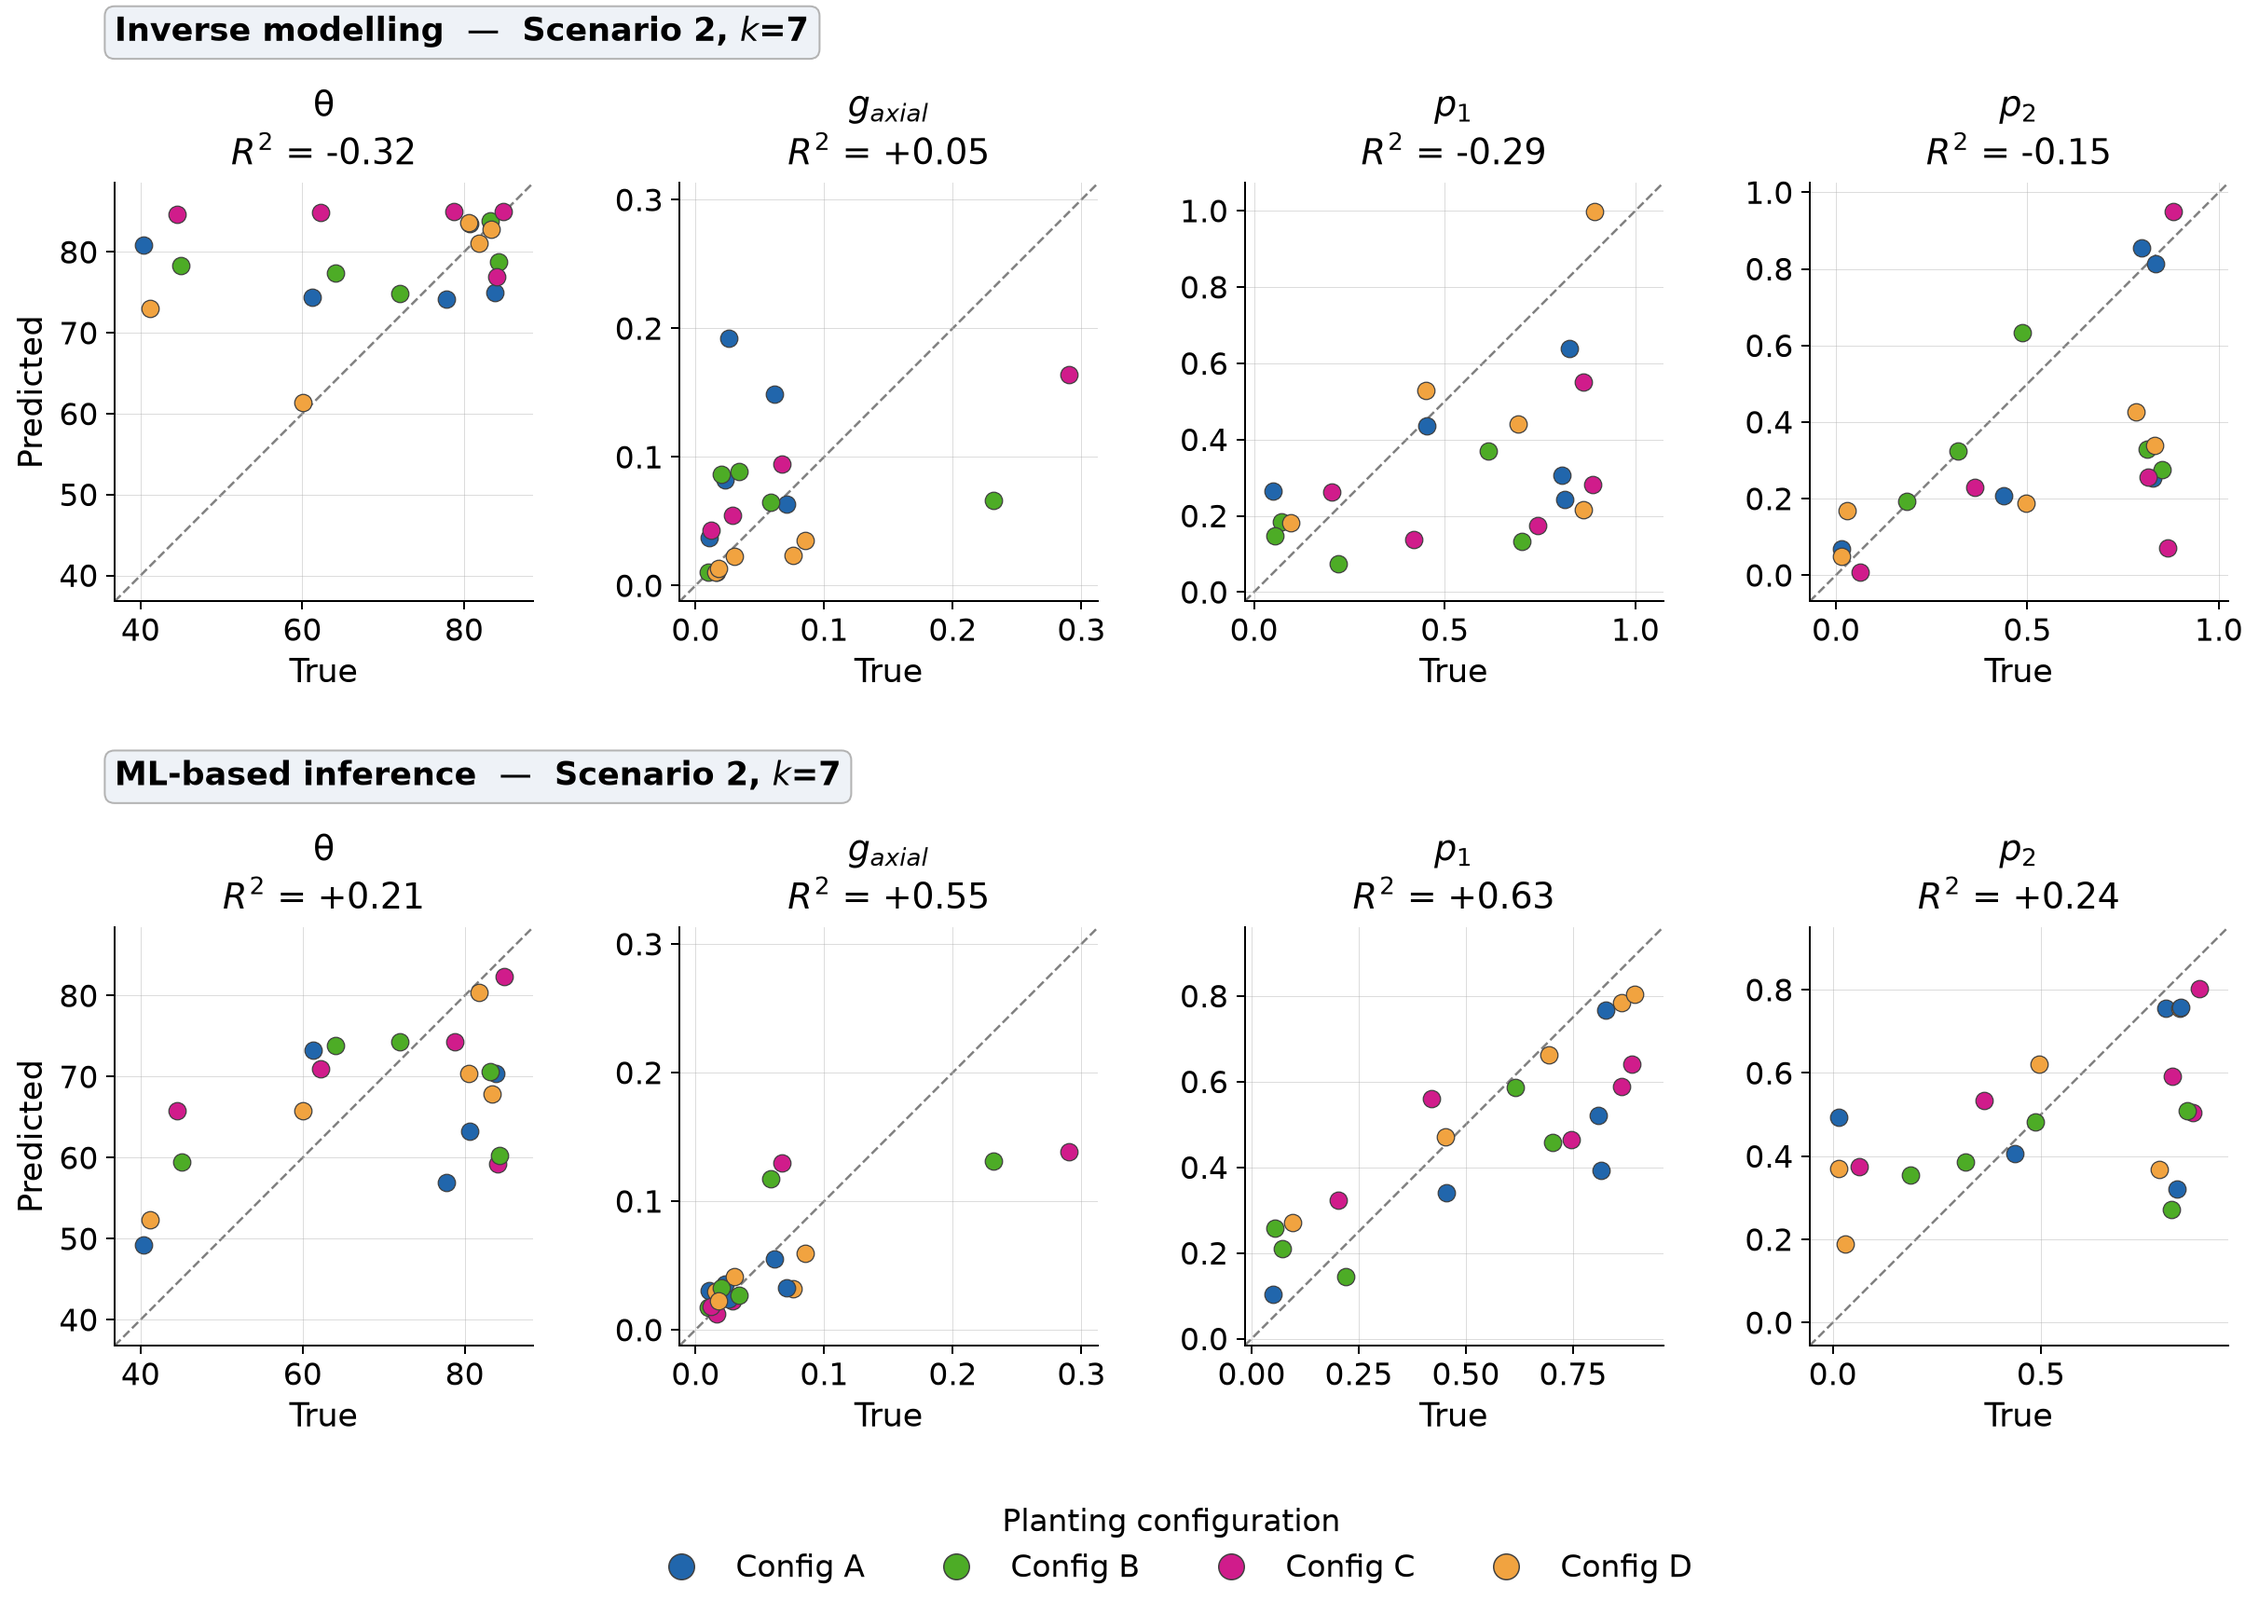
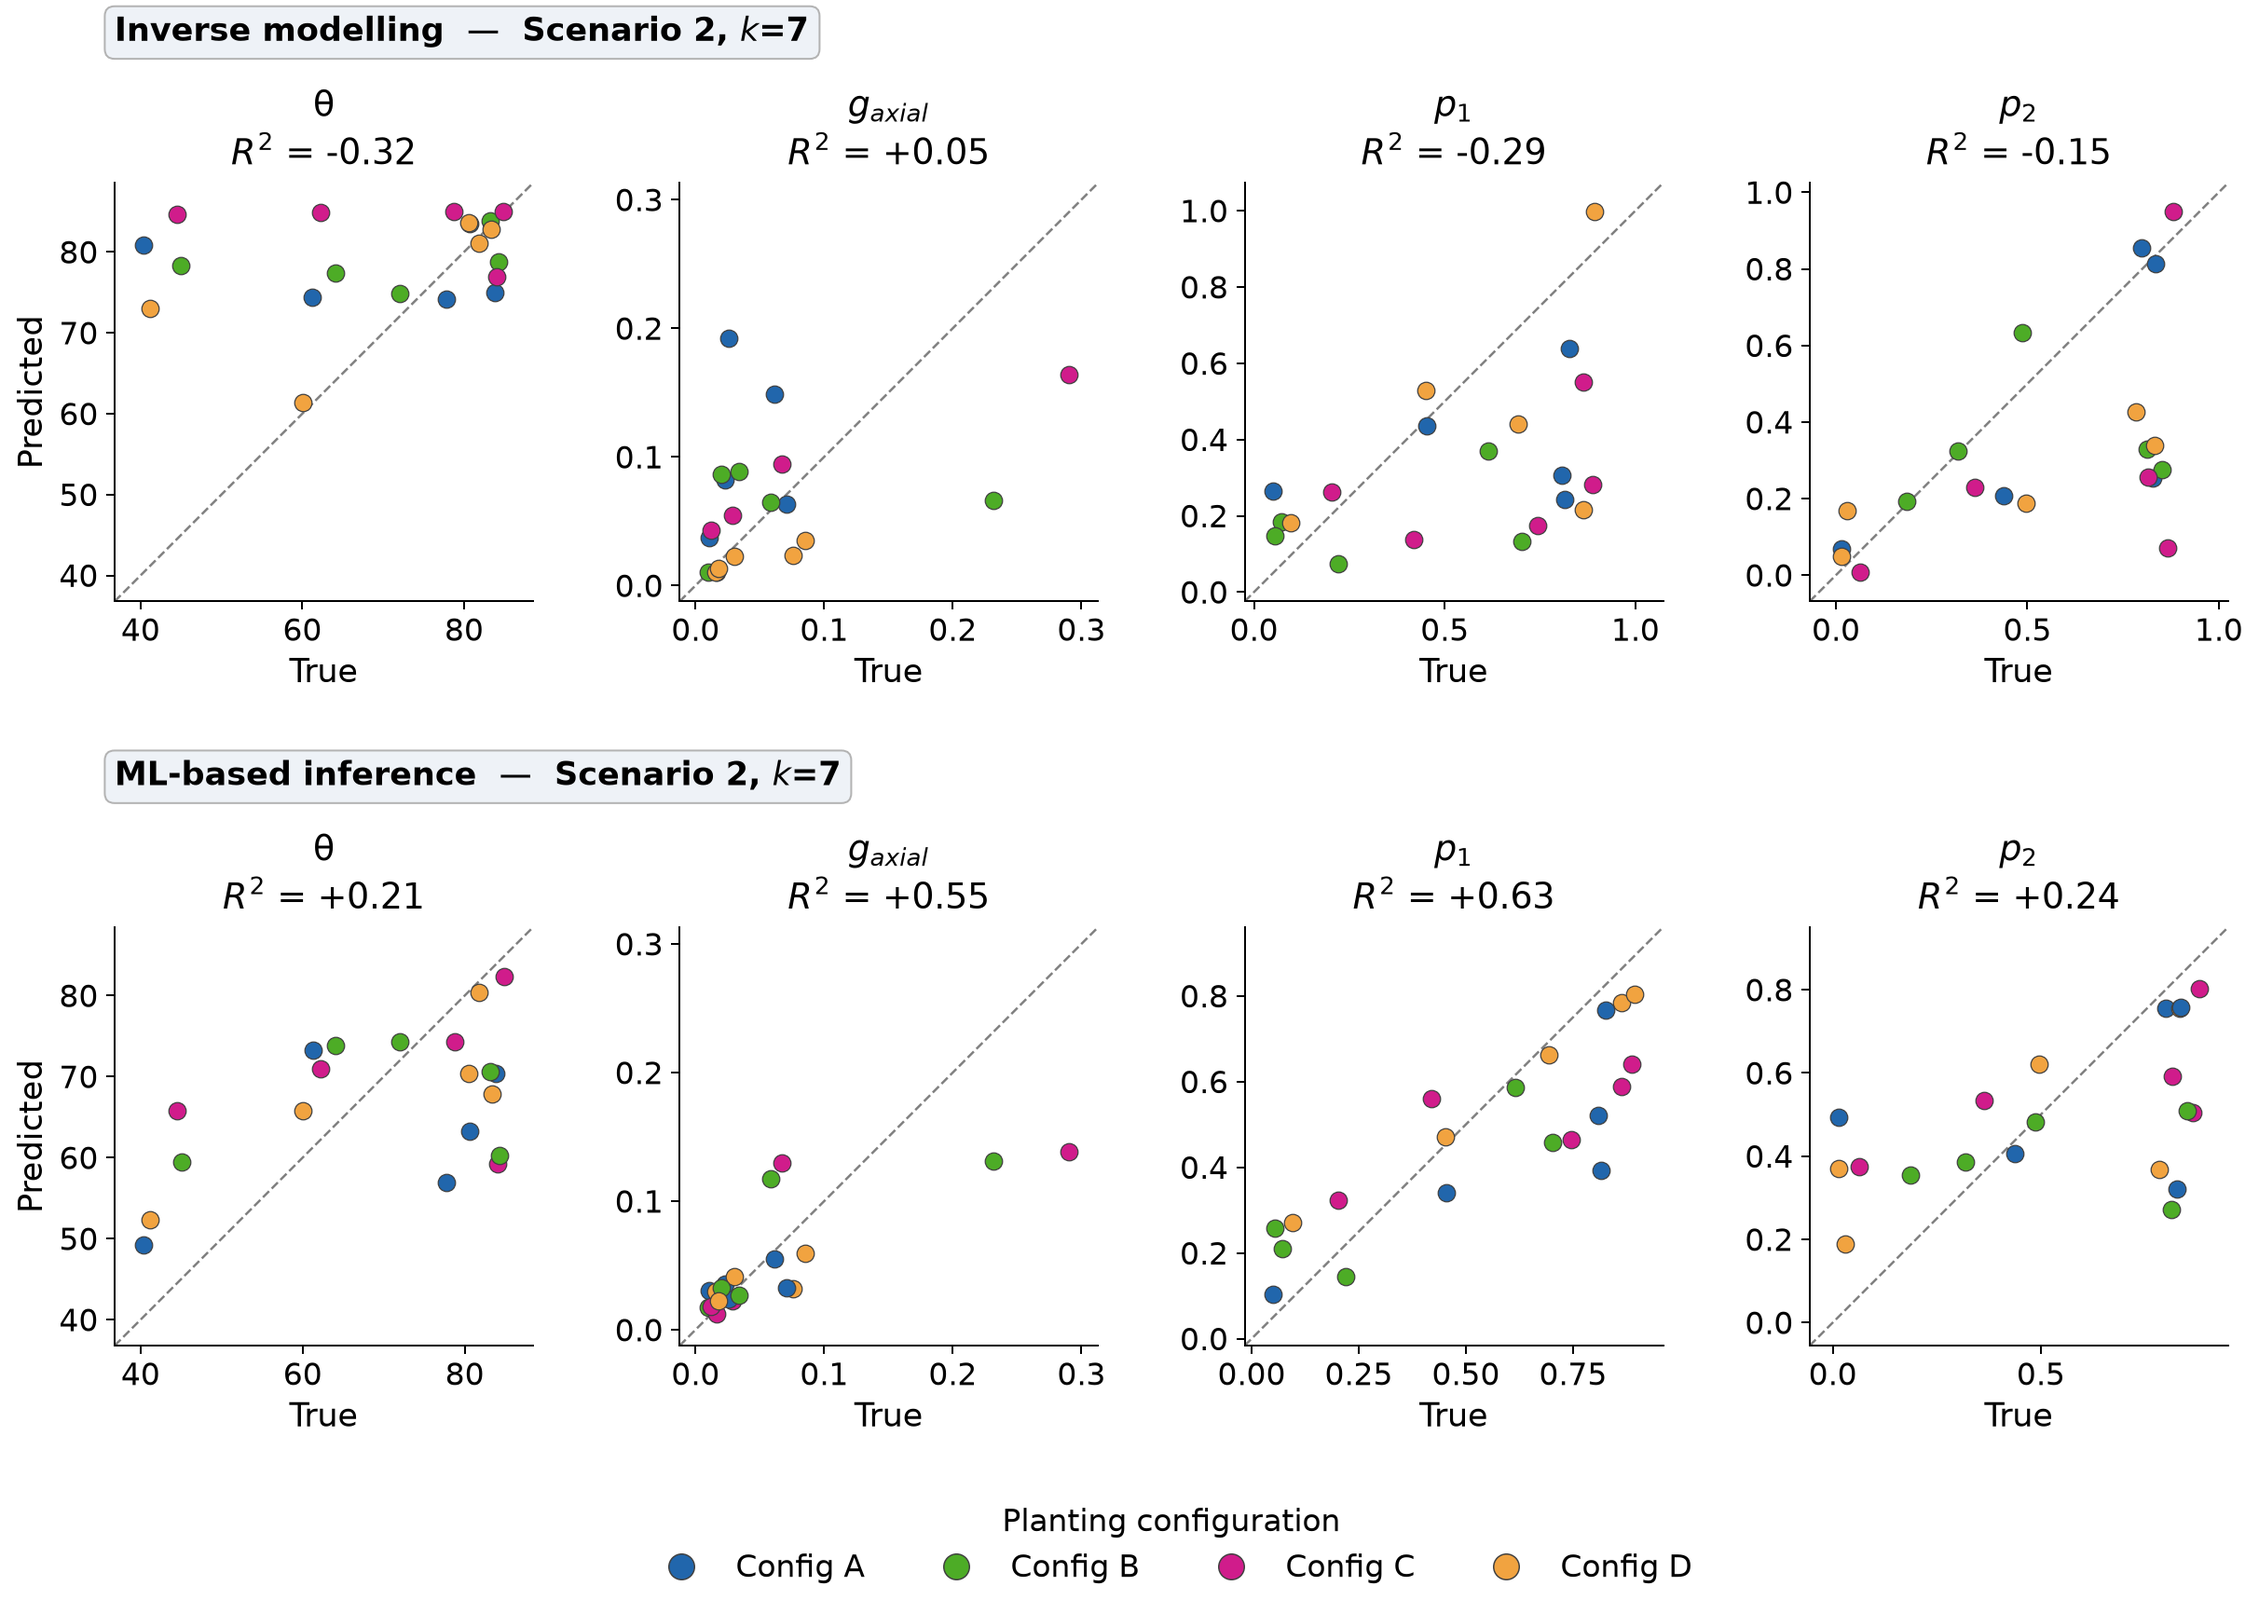
Remove grid lines from Fig 3 and Fig 4

diff --git a/publication/scripts/plot_fig3_parameter_recovery.py b/publication/scripts/plot_fig3_parameter_recovery.py
@@ -171,7 +171,7 @@ for gs_start, params, cmae_label, tab_label in GROUP_BLOCKS:
             ax.set_xlabel("True", fontsize=14)
             ax.set_ylabel("Predicted", fontsize=14) if col_idx == 0 else ax.set_ylabel("")
             ax.tick_params(labelsize=13)
-            ax.grid(True, lw=0.35, alpha=0.5)
+            ax.grid(False)
             ax.spines["top"].set_visible(False)
             ax.spines["right"].set_visible(False)
             ax.set_title(f"{PARAM_LABELS[param]}\n$R^2$={r2:+.2f}", fontsize=16, pad=10)

diff --git a/publication/scripts/plot_fig4_parameter_recovery.py b/publication/scripts/plot_fig4_parameter_recovery.py
@@ -125,7 +125,7 @@ for row_idx, (df, row_label) in enumerate(ROW_CONFIGS):
         ax.set_xlabel("True", fontsize=14)
         ax.set_ylabel("Predicted", fontsize=14) if col_idx == 0 else ax.set_ylabel("")
         ax.tick_params(labelsize=13)
-        ax.grid(True, lw=0.35, alpha=0.5)
+        ax.grid(False)
         ax.spines["top"].set_visible(False)
         ax.spines["right"].set_visible(False)
         ax.set_title(f"{PARAM_LABELS[param]}\n$R^2$ = {r2:+.2f}", fontsize=15, pad=8)
